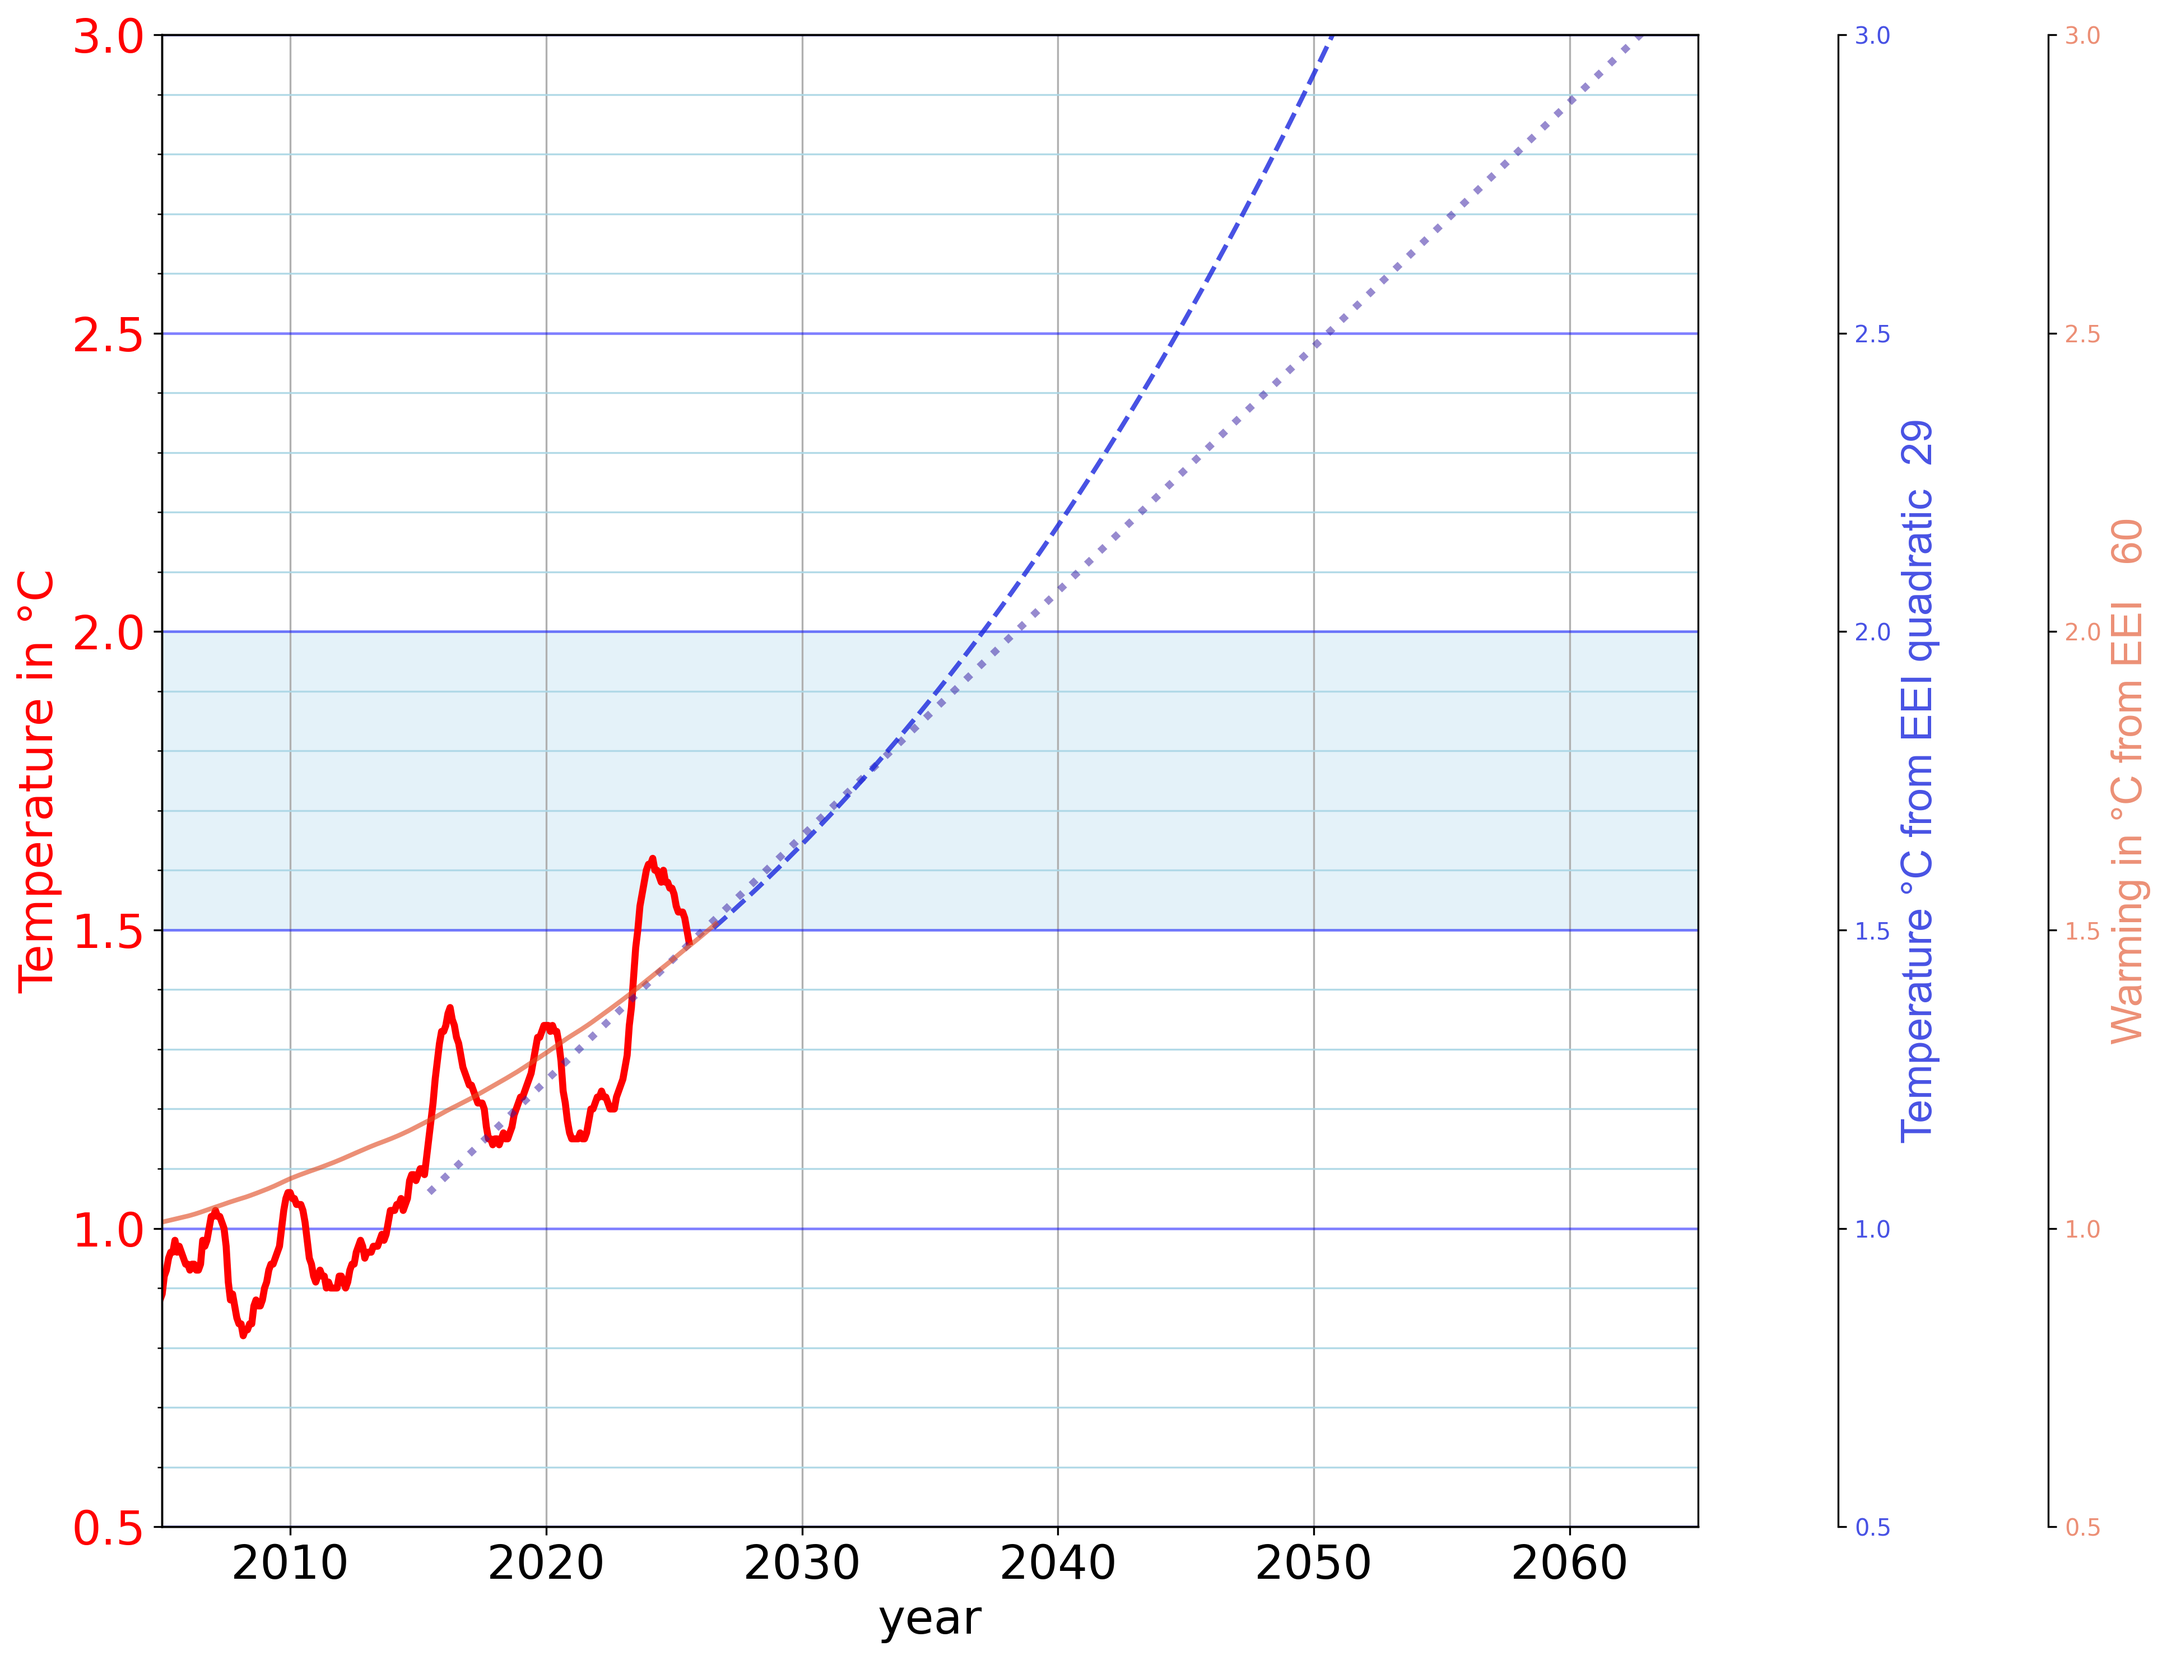
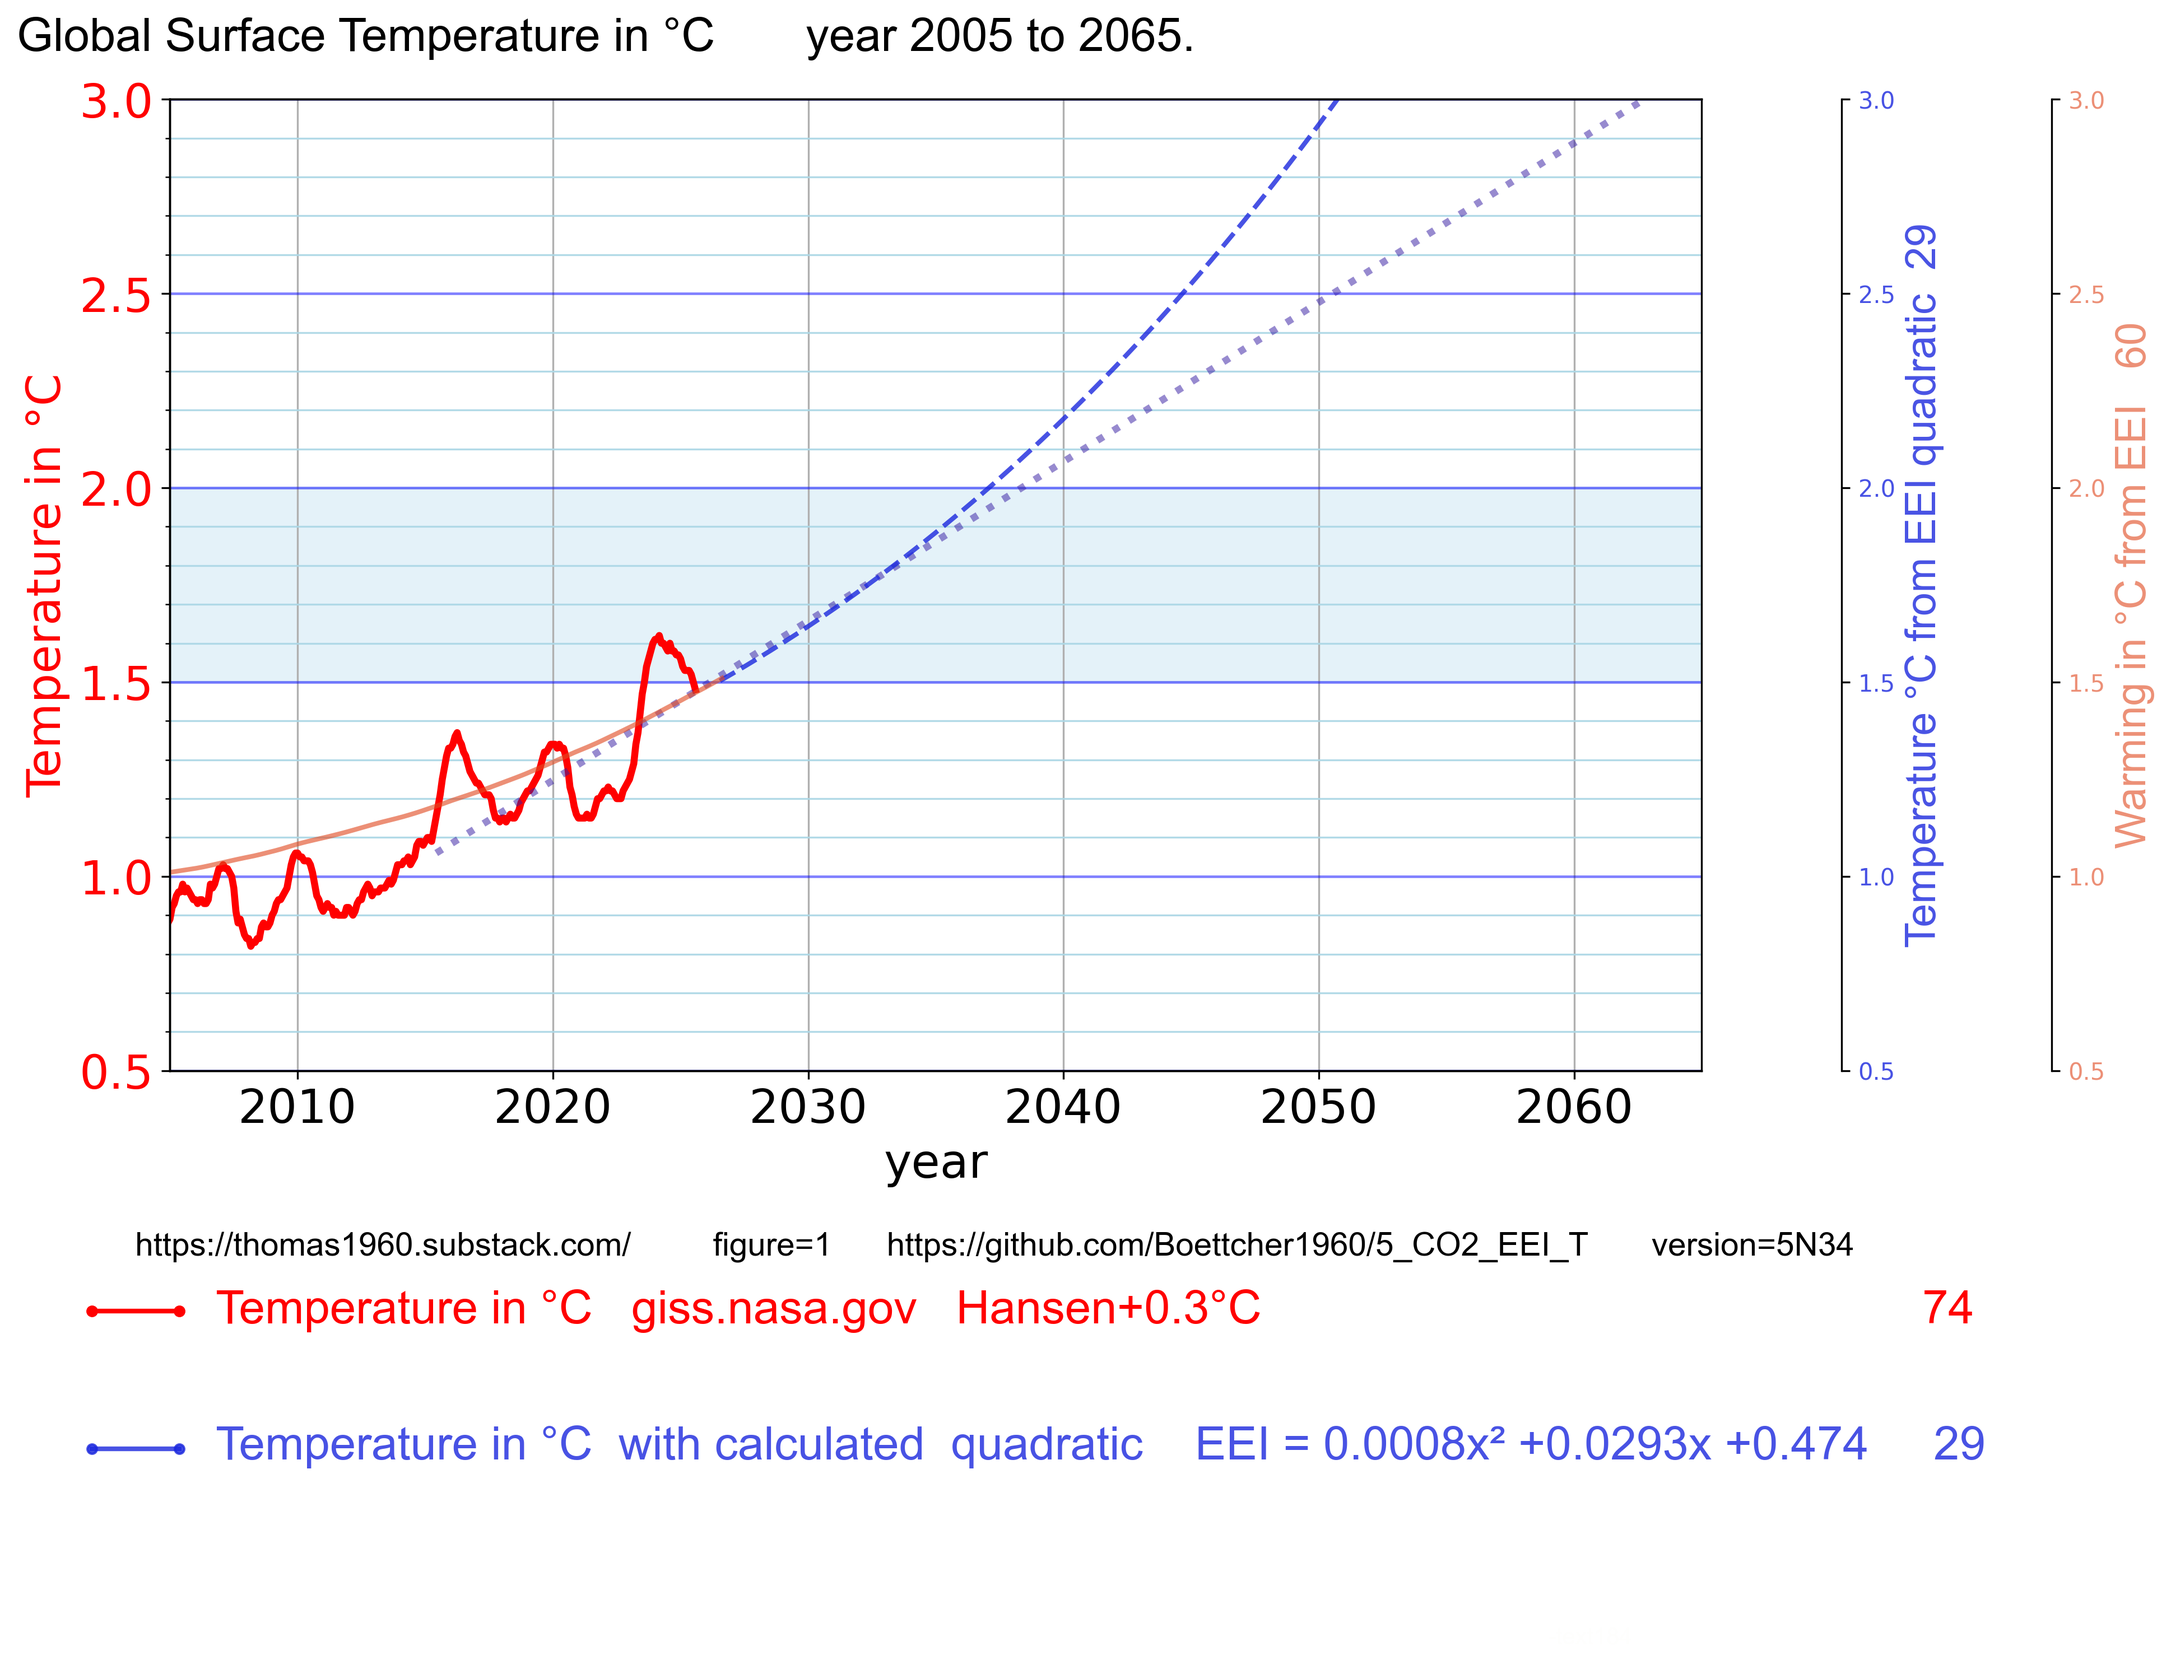
5N34" #   def main_figure_1():

diff --git a/main.py b/main.py
@@ -1,5 +1,5 @@
 # main.py
-v = "5N33" #   def main_figure_1():
+v = "5N34" #   def main_figure_1():
 #
 #
 #
@@ -32,10 +32,6 @@ from ceres import *
 if print_debug > 9:
    print("")
    print("main_030: start main ", line2_play , line3_play , line4_play)
-
-
-
-
 
 
 def hide_other_right_axes(ax1, keep_axis):
@@ -270,7 +266,24 @@ def main_figure_1():
     # Save plot
     save_png1(fig, header_parameter)
 
+    if figure202 == 200:
+           figure100 = 102 # substack #28 uses 102 , 104 , 105 , 106 , 107 , 110
+           # path2 = f"/Users/thomasboettcher/Desktop/{filename}"
+           path = f"/Users/thomasboettcher/documents/Python/5_CO2_EEI_T/png/figure{figure100}_EEI_T.png"
+           #path = "/Users/thomasboettcher/documents/Python/5_CO2_EEI_T/png/figure000_EEI_T.png"
+           fig.savefig(path, dpi=300, bbox_inches="tight")
     
+    # Show plot
+    # plt.show()
+    
+    # Save plot
+    # save_png1(fig, header_parameter)
+
+    
+    
+    # Close figure
+    plt.close(fig)
+
 
 
 # main program
@@ -300,78 +313,7 @@ def main():
     if figure100 > 0:
         main_figure_1()
 
-    # Process CERES data
-    ceres_process_data()
     
-    # Setup figure
-    fig, ax1 = setup_figure(scale_mode)
-    
-    # Load data
-    data = load_plot_data()
-    
-    # 8.3 print the left y axis  # Configure axes plotting.py 
-    ax1 = plot_1_axe(ax1)
-    
-    # call plotting.py line 200 to line 500
-    plot_9_create_all_plots(ax1, data)
-    
-    # Add grid lines
-    add_grid_lines(ax1)
-    
-    # Add vertical bands
-    add_vertical_bands(ax1, C280)
-    
-    # Add temperature band if temperature plots are active # 74.9
-    if plot71_temperature > 0 or plot72_AESS_T > 0 or plot73_ECS_T > 0 or plot74_GIS_T > 0:
-        if print_debug > 13:
-            print(f"main_372: bug6 temperature band on left y axis only plot74_GIS_T={plot74_GIS_T} {'='*5}")
-        add_temperature_band(ax1) # 1.5 to 2 on left y axis
-        # Find the active temperature axis
-        for ax in [ax1] + ax1.get_figure().get_axes():
-            if hasattr(ax, 'get_ylabel') and 'Temperature' in ax.get_ylabel():
-                add_temperature_band(ax)
-                print(f"main_378{'='*1} temperature_band")
-                break
-    
-    
-    # Add x-axis label
-    ax1.set_xlabel("year", fontsize=20)
-    plt.xticks(fontsize=20)
-    ax1.tick_params(axis="x", labelcolor="black", labelsize=20)
-    
-    axes = plt.gcf().get_axes()
-    # Keep axes 0, 1, 2, hide all others
-    # print("main_468: call plot_6_remove_axe1.")
-    #plot_6_remove_axe1(axes,yr_delete)
-    plot_6_remove_axe1(axes,-1) # -1= no delete, print only
-    #plot_6_remove_axe1(axes,0) # delete axe 
-    # plot_6_remove_axe1(axes,1) # delete axe 
-    #plot_6_remove_axe1(axes,2) # delete axe 
-    #plot_6_remove_axe1(axes,3) # delete axe 
-    #plot_6_remove_axe1(axes,4) # delete axe 
-    #plot_6_remove_axe1(axes,5) # delete axe 5, not axe 0
-    #plot_6_remove_axe1(axes,6)  # delete axe 6
-    
-    # Adjust layout
-    fig.tight_layout()
-    plt.tight_layout()
-    
-    # Show plot
-    plt.show()
-    
-    # Save plot
-    # save_png1(fig, header_parameter)
-
-    if figure202 == 200:
-       figure100 = 102 # substack #28 uses 102 , 104 , 105 , 106 , 107 , 110
-       # path2 = f"/Users/thomasboettcher/Desktop/{filename}"
-       path = f"/Users/thomasboettcher/documents/Python/5_CO2_EEI_T/png/figure{figure100}_EEI_T.png"
-       #path = "/Users/thomasboettcher/documents/Python/5_CO2_EEI_T/png/figure000_EEI_T.png"
-       fig.savefig(path, dpi=300, bbox_inches="tight")
-
-    
-    # Close figure
-    plt.close(fig)
     run_optional_figures()
 
 
